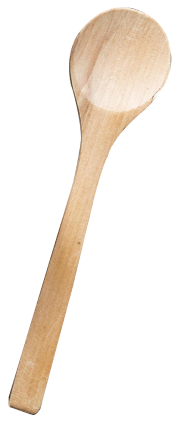
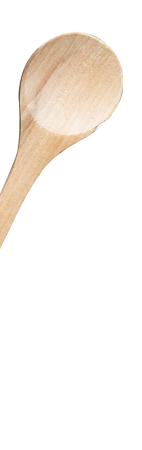
added spoon image as bgi to hero section
Змінив позиціонування ложки, тепер вона позиціонується відносно section hero і власне повернув зображення яке було експортовано при стоворенні проекту. Питання полягає в тому яку основну концепцію ми приймаємо? Позиціонуємо відносно секцій чи контейнеру?

Changed region(s): [[0.0, 0.0, 0.9577, 0.9858]]

diff --git a/src/sass/_hero.scss b/src/sass/_hero.scss
@@ -1,13 +1,4 @@
-// background-color задаю на секцию но нужно не забыть потом удалить
 .hero {
-  background-color: var(--primary-background-color);
-}
-
-.hero__container {
-  // @media screen and (min-width: 767.99px) {
-  //   padding-left: 68px;
-  // }
-
   @media screen and (min-width: 1279.98px) {
     position: relative;
 
@@ -16,9 +7,9 @@
       position: absolute;
       width: 178px;
       height: 421px;
-      left: -309px;
+      left: 0px;
       top: 22px;
-      transform: rotate(12.22deg);
+
       background-image: url(../images/desktop/header-spoon_desktop.png);
       background-repeat: no-repeat;
       background-size: contain;
@@ -32,6 +23,8 @@
     }
   }
 }
+// .hero__container {
+// }
 
 .hero__title {
   max-width: 224px;
@@ -97,7 +90,8 @@
 
 .social-links__hero {
   @media screen and (min-width: 768px) {
-    display: flex;
+    display: inline-flex;
     justify-content: start;
+    background-color: var(--primary-background-color);
   }
 }

diff --git a/src/sass/_base.scss b/src/sass/_base.scss
@@ -39,8 +39,6 @@ img {
   margin-left: auto;
   margin-right: auto;
 
-
-
   @media screen and (max-width: 767px) {
     padding-left: 15px;
     padding-right: 15px;
@@ -108,7 +106,6 @@ body {
     padding: 5px;
     border-radius: 50%;
     fill: var(--main-text-color);
-    background-color: var(--primary-background-color);
     transition: background-color 250ms cubic-bezier(0.4, 0, 0.2, 1);
   }
 

diff --git a/src/partials/hero.html b/src/partials/hero.html
@@ -1,5 +1,5 @@
 <section class="hero">
-    <div class="container hero__container">
+    <div class="container">
     <h1 class="hero__title">
         Donut Masterclass with the Donut King
     </h1>
